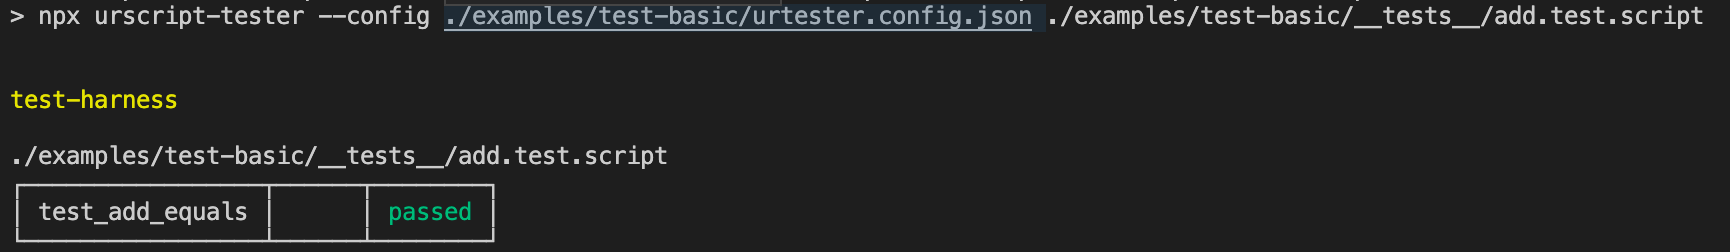
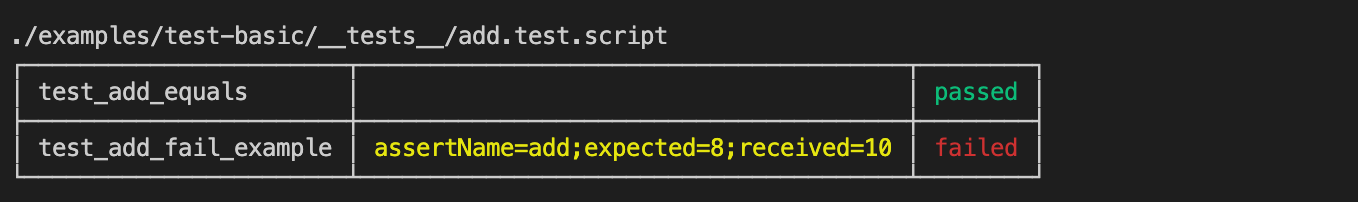
chore: fixed typos. updated example test image.

diff --git a/README.md b/README.md
@@ -20,7 +20,7 @@
 
 ## Overview
 
-URScript Tools is a suite of tools aimed to enhance the developer experience around URscript. These tools allow you to run URScript locally against a URController without the need for a cobot or a complicated VM setup.
+URScript Tools is a suite of tools aimed to enhance the developer experience around URScript. These tools allow you to run URScript locally against a URController without the need for a cobot or a complicated VM setup.
 
 ## Quick Start
 
@@ -48,7 +48,7 @@ Hello, welcome to urscript-tools!
 Congrats! Your environment is now setup to run urscript tools. Browse the example project to see advanced usage
 on how to use each of the tools
 
-## Documenation
+## Documentation
 
 ### URScript Runner
 
@@ -104,9 +104,9 @@ The script tester provides the ability to write unit tests against your URScript
 
 - Unit test
   - Each test file can contain multiple unit tests and the test framework can match against wildcard patterns to execute tests
-  - Controller output directly to console
+  - Controller prints output directly to the console
 - Mock support
-  - Allows user to mock any built-in or custom urscript function for testing purposes
+  - Allows the user to mock any built-in or custom urscript function for testing purposes
 - Additional Capabilities
   - Before Each
     - Invoke logic before each test
@@ -122,7 +122,7 @@ Example configuration
 
 #### Test Syntax
 
-`test_<myFunctionName>`
+`test_<myTestName>`
 
 Example Test:
 
@@ -135,14 +135,14 @@ def test_add():
   local result = add(5, 5)
 
   assertEqual(
-    name = "add",
+    name = "add - equals",
     result = result,
     expected = 10
   )
 end
 ```
 
-Example Output:
+Sample Results:
 
 <p><img src="docs/images/basic-test-output.png" alt="Basic test output" /></p>
 
